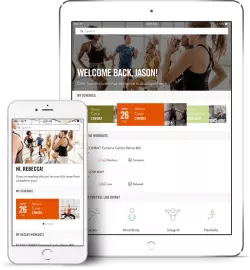
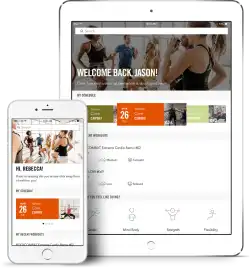
feat: update images les-mills

diff --git a/case-study/les-mills.html b/case-study/les-mills.html
@@ -50,7 +50,7 @@
           </div>
         </div>
         <picture data-w-id="e96889f9-81d3-8bcc-3444-f073233b7b74" class="case-study-mobile-hero-right-column les-mills-mobile-hero-right-column w-col w-col-4">
-            <source media="(max-width: 479px)" width="250px" height="281px" srcset="../images/case-study/les-mills/webp/hero-mobile.webp 1x, ../images/case-study/les-mills/webp/hero-mobile-retina.webp 2x" type="image/webp">
+            <source media="(max-width: 479px)" width="250px" height="269px" srcset="../images/case-study/les-mills/webp/hero-mobile.webp 1x, ../images/case-study/les-mills/webp/hero-mobile-2x.webp 2x" type="image/webp">
             <source width="547px" height="588px" srcset="../images/case-study/les-mills/webp/hero.webp" type="image/webp">
             <source srcset="../images/case-study/les-mills/png/hero.png" type="image/png">
             <img src="../images/case-study/les-mills/png/hero.png" alt="Screenshot of Les Mills user dashboard designed for iPhone and iPad." srcset="../images/case-study/les-mills/png/hero-p-500.png 500w, ../images/case-study/les-mills/png/hero-p-800.png 800w, ../images/case-study/les-mills/png/hero-p-1080.png 1080w, ../images/case-study/les-mills/png/hero-p-1252.png 1252w" sizes="(max-width: 479px) 72vw, (max-width: 767px) 75vw, (max-width: 991px) 51vw, 53vw" class="mobile-case-study-hero-image les-mills-hero">
